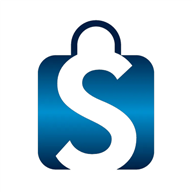
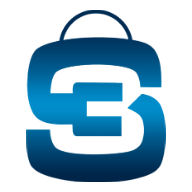
feat: adopt the new Sals3 brand mark everywhere
The owner supplied a new lockup (bag mark with the 3 glyph, 5238x1905). This
replaces the old mark on every surface that carried it and regenerates the square
icons from the same source in the same pass, so the tab, the installed PWA, the
header, the footer and the auth screens cannot disagree about which mark is
current.

public/sals3-logo.webp is trimmed to its own ink bounds and resized to 640x219,
14.5 KB — down from 46 KB. The proportion changes from 3.09:1 to 2.92:1, so every
call site's width/height attributes move with it: local paths bypass next/image's
optimizer (the account's allowance ran out on 2026-08-14 and the loader hands only
CJ addresses to CJ's CDN), which makes the committed file the wire file and the
intrinsic attributes the only thing reserving the right box.

The square icons - public/icon-192.png, public/icon-512.png,
src/app/apple-icon.png and src/app/favicon.ico - are the bag mark alone, centred
with 10% padding on transparency, cropped by scanning the source's alpha channel
rather than by eyeballed pixel offsets.

The expanded header's white knockout still works because the asset carries no
opaque white pixels at all: the counter inside the bag is transparent, so
`filter: brightness(0) invert(1)` turns the mark white and shows the gradient
through the counter instead of filling it in. Verified by scanning every pixel of
the source, not by looking at it.

Verified: lint, format:check, typecheck:clean, build, test:run (686), test:e2e
[…]

diff --git a/src/components/layout/Logo.tsx b/src/components/layout/Logo.tsx
@@ -2,14 +2,16 @@ import Image from 'next/image';
 import Link from 'next/link';
 
 /**
- * The mark is 2000x647 and is drawn in navy and teal on transparency, so it
+ * The mark is 640x219 and is drawn in navy and teal on transparency, so it
  * disappears against the expanded header's gradient. `--header-logo-filter`
  * flips it to solid white there and back to its own colours once the header
  * compacts; both states are written as the same filter list so the swap
- * interpolates instead of snapping.
+ * interpolates instead of snapping. The white state is a clean knockout because
+ * the asset carries no opaque white pixels at all — the counter inside the bag
+ * is transparent, so it shows the gradient through rather than filling in.
  *
  * Height is the only dimension set (40px expanded, 30px compact, from
- * `--header-logo-height`). `width: auto` keeps the intrinsic 3.09:1 proportion
+ * `--header-logo-height`). `width: auto` keeps the intrinsic 2.92:1 proportion
  * at every height, and the `width`/`height` attributes stay at the intrinsic
  * pixel size so the browser reserves the right box before the file arrives.
  */
@@ -19,8 +21,8 @@ export default function Logo() {
       <Image
         src="/sals3-logo.webp"
         alt="Sals3"
-        width={2000}
-        height={647}
+        width={640}
+        height={219}
         priority
         className="h-[var(--header-logo-height)] w-auto transition-[height,filter] duration-250 ease-out"
         style={{ filter: 'var(--header-logo-filter)' }}

diff --git a/src/components/auth/SignupCard.tsx b/src/components/auth/SignupCard.tsx
@@ -26,15 +26,15 @@ export default function SignupCard({ nextKey }: SignupCardProps) {
     <div className="flex flex-1 items-center justify-center bg-white px-[clamp(28px,4vw,44px)] py-[clamp(40px,6vh,72px)] lg:basis-1/2">
       <div className="flex w-full max-w-[424px] flex-col gap-[30px]">
         {/*
-          Intrinsic size is the real asset's 2000x647 so Next can serve a
+          Intrinsic size is the real asset's 640x219 so Next can serve a
           correctly scaled rendition; the rendered box is pinned to 38px tall to
           match the design and to reserve space before the image decodes.
         */}
         <Image
           src="/sals3-logo.webp"
           alt={SITE_NAME}
-          width={2000}
-          height={647}
+          width={640}
+          height={219}
           priority
           className="h-[38px] w-auto self-start"
         />

diff --git a/src/components/auth/LoginCard.tsx b/src/components/auth/LoginCard.tsx
@@ -30,15 +30,15 @@ export default function LoginCard({ nextKey }: LoginCardProps) {
     <div className="flex flex-1 items-center justify-center bg-white px-[clamp(28px,4vw,44px)] py-[clamp(40px,6vh,72px)] lg:basis-1/2">
       <div className="flex w-full max-w-[424px] flex-col gap-[30px]">
         {/*
-          Intrinsic size is the real asset's 2000x647 so Next can serve a
+          Intrinsic size is the real asset's 640x219 so Next can serve a
           correctly scaled rendition; the rendered box is pinned to 38px tall to
           match the design and to reserve space before the image decodes.
         */}
         <Image
           src="/sals3-logo.webp"
           alt={SITE_NAME}
-          width={2000}
-          height={647}
+          width={640}
+          height={219}
           priority
           className="h-[38px] w-auto self-start"
         />

diff --git a/src/components/layout/FooterBrand.tsx b/src/components/layout/FooterBrand.tsx
@@ -7,8 +7,8 @@ export default function FooterBrand() {
         <Image
           src="/sals3-logo.webp"
           alt="Sals3"
-          width={2000}
-          height={647}
+          width={640}
+          height={219}
           style={{ height: '26px', width: 'auto' }}
         />
       </span>

diff --git a/README.md b/README.md
@@ -988,6 +988,27 @@ Link targets reuse the existing footer stub routes (`/sell`, `/contact`) from
 My Order" was deliberately left out: the main header's `Orders` link already
 covers that, and Bogs flagged the duplication during review.
 
+### Brand mark
+
+`public/sals3-logo.webp` is the horizontal lockup — bag mark plus wordmark, 640x219,
+14.5 KB, navy-to-azure gradient on transparency. It was regenerated from the
+owner's 5238x1905 source on 2026-08-20 and trimmed to its own ink bounds, so the
+committed proportion is 2.92:1. That number matters: `next/image`'s optimizer is
+bypassed for local paths (see [Image loading](#image-loading)), so the file on
+disk is the file on the wire and the `width`/`height` attributes at every call
+site have to match it or the reserved box is wrong.
+
+The asset carries **no opaque white pixels** — the counter inside the bag is
+transparent. That is what lets the expanded header render the mark as a clean
+white knockout with `filter: brightness(0) invert(1)`: every opaque pixel becomes
+white and the counter shows the gradient through instead of filling in.
+
+The square icons (`public/icon-192.png`, `public/icon-512.png`,
+`src/app/apple-icon.png`, `src/app/favicon.ico`) are the bag mark alone, centred
+with 10% padding on transparency, generated from the same source in the same
+pass so the tab, the installed PWA and the header can never disagree about which
+mark is current.
+
 ### Two-state header chrome
 
 The header has two looks, driven by one boolean in
